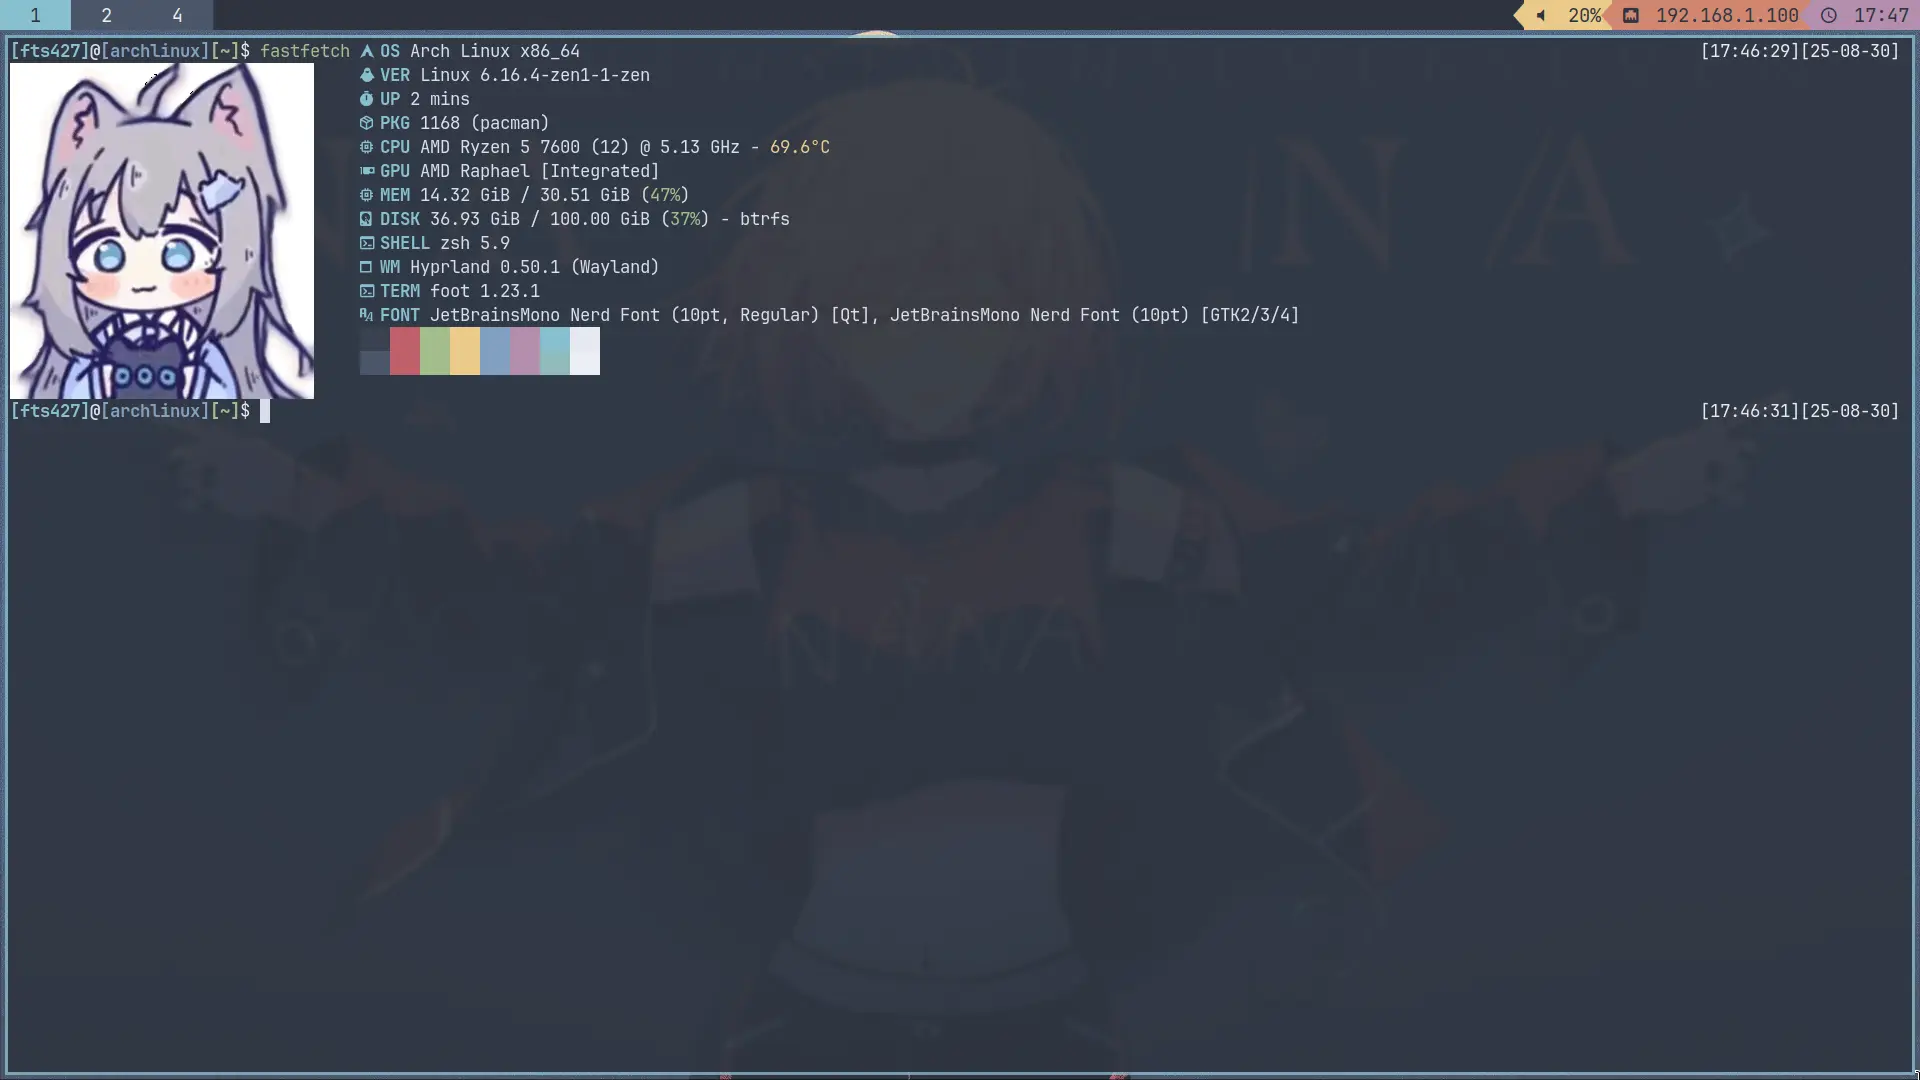
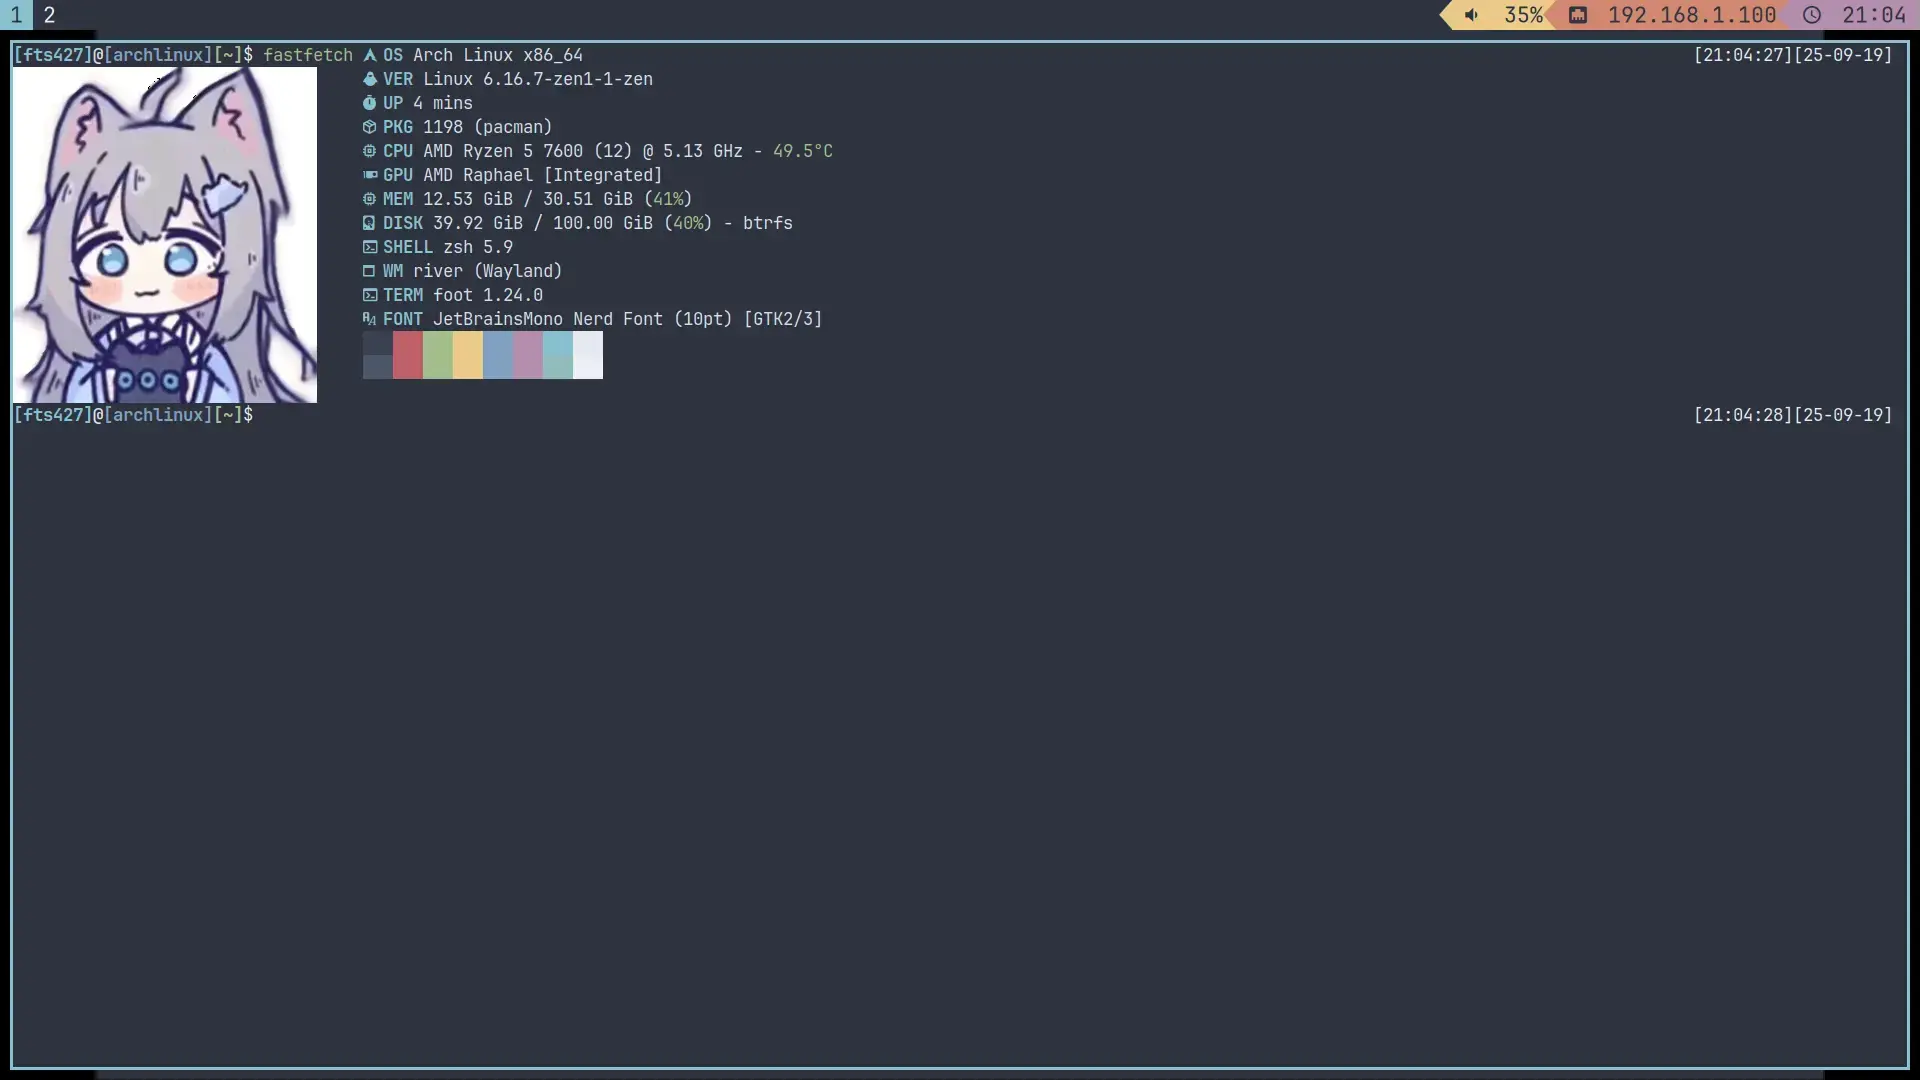
U | update my workspace info

Changed region(s): [[0.0, 0.0, 1.0, 1.0]]

diff --git a/docs/about_me/about_me.md b/docs/about_me/about_me.md
@@ -63,7 +63,7 @@ Xbox ID: Huang_FTS427
 
 备用开发系统: Windows 10 Professional Workstation
 
-桌面环境: Hyprland
+桌面环境: River
 
 CPU: AMD Ryzen 5 7600 (12) @ 5.13 GHz
 
